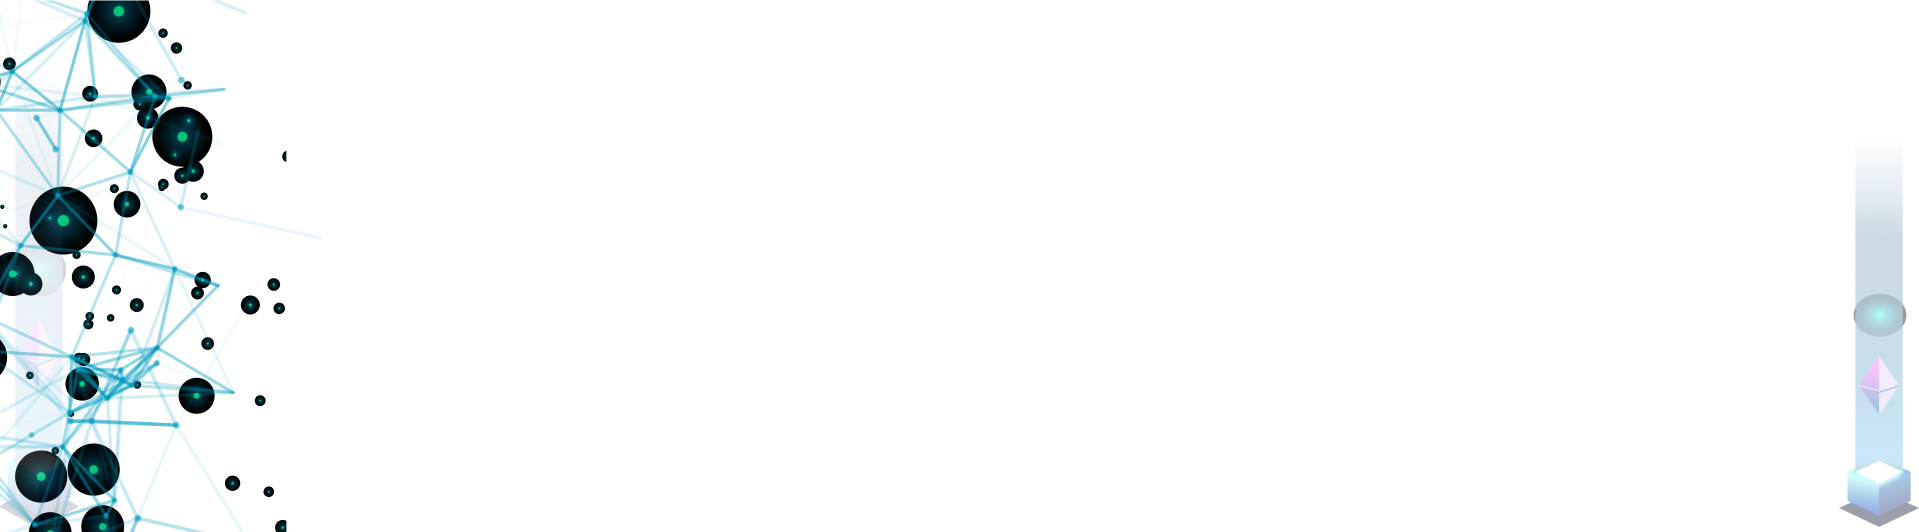
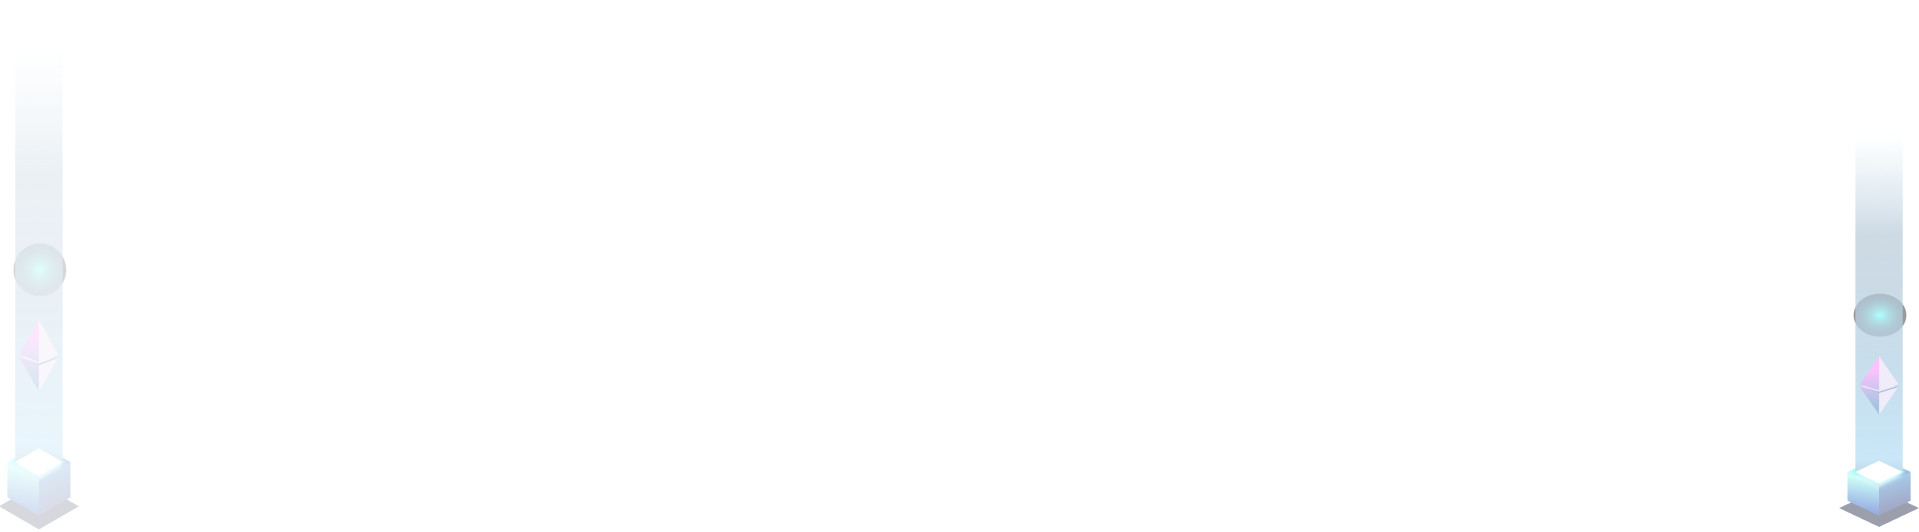
Версия - 1.0.4. Работы над footer
js/jsx -  В компонент Footer.jsx, был добавлен основной контент.

Changed region(s): [[0.0, 0.0, 0.1537, 1.0], [0.0922, 0.9023, 0.1537, 0.9323]]

diff --git a/src/components/Footer.jsx b/src/components/Footer.jsx
@@ -1,11 +1,20 @@
 // Import Images
 import footerLogo from "../img/footer/Group 215.png";
+import footerBg from "../img/footer/bg.png";
+import headphones from "../img/footer/Group.png";
+import mail from "../img/footer/Group 153.png";
+import geo from "../img/footer/Group 154.png";
+import facebook from "../img/footer/facebook.png";
+import instagram from "../img/footer/instagram.png";
+import whatsapp from "../img/footer/whatsapp.png";
+import twitter from "../img/footer/twitter.png";
+import youtube from "../img/footer/youtube.png";
 
 const Footer = () => {
   return (
     <footer className="footer">
       <div className="footer__bg">
-        <img src="" alt="" />
+        <img src={footerBg} alt="" />
       </div>
       <article className="footer-info">
         <ul className="footer-info__column">
@@ -13,81 +22,91 @@ const Footer = () => {
             <img src={footerLogo} alt="" />
           </li>
           <li className="footer-info__list">
-            <p></p>
+            <p>
+              which is the same as saying through shrinking from toil and pain.
+              These cases are perfectly simple and easy to distinguish.
+            </p>
           </li>
           <li className="footer-info__list">
-            <img src="" alt="" />
-            <p></p>
+            <img src={headphones} alt="" />
+            <p>+7 (495) 2222-0000-32</p>
           </li>
           <li className="footer-info__list">
-            <img src="" alt="" />
-            <p></p>
+            <img src={mail} alt="" />
+            <p>Hello.me@nft.com</p>
           </li>
           <li className="footer-info__list">
-            <img src="" alt="" />
-            <p></p>
+            <img src={geo} alt="" />
+            <p>00000 Collins Street West Victoria 66666 Australia</p>
           </li>
         </ul>
       </article>
       <article className="footer-explore">
         <ul className="footer-explore__column">
           <li className="footer-explore__list">
-            <p className="list-title"></p>
+            <p className="list-title">Explore</p>
           </li>
           <li className="footer-explore__list">
-            <p></p>
+            <p>My Account</p>
           </li>
           <li className="footer-explore__list">
-            <p></p>
+            <p>Create Now</p>
           </li>
           <li className="footer-explore__list">
-            <p></p>
+            <p>List a Item</p>
           </li>
           <li className="footer-explore__list">
-            <p></p>
+            <p>Privacy Polocy</p>
           </li>
           <li className="footer-explore__list">
-            <p></p>
+            <p>FAQs</p>
           </li>
         </ul>
       </article>
       <article className="footer-marketplace">
         <ul className="footer-marketplace__column">
           <li className="footer-marketplace__list">
-            <p className="list-title"></p>
+            <p className="list-title">Marketplece</p>
           </li>
           <li className="footer-marketplace__list">
-            <p></p>
+            <p>Art</p>
           </li>
           <li className="footer-marketplace__list">
-            <p></p>
+            <p>Photo</p>
           </li>
           <li className="footer-marketplace__list">
-            <p></p>
+            <p>Create a Store</p>
           </li>
           <li className="footer-marketplace__list">
-            <p></p>
+            <p>Start Selling</p>
           </li>
         </ul>
       </article>
       <article className="footer-newsletter">
         <ul className="footer-newsletter__column">
           <li className="footer-newsletter__list">
-            <p className="list-title"></p>
+            <p className="list-title">Newsletter</p>
           </li>
           <li className="footer-newsletter__list">
-            <img src="" alt="" className="list-img" />
-            <img src="" alt="" className="list-img" />
-            <img src="" alt="" className="list-img" />
+            <img src={facebook} alt="" className="list-img" />
+            <img src={instagram} alt="" className="list-img" />
+            <img src={whatsapp} alt="" className="list-img" />
           </li>
           <li className="footer-newsletter__list">
-            <img src="" alt="" className="list-img" />
-            <img src="" alt="" className="list-img" />
+            <img src={twitter} alt="" className="list-img" />
+            <img src={youtube} alt="" className="list-img" />
           </li>
           <li className="footer-newsletter__list">
             <form action="" className="list-form">
-              <input type="text" className="list-input" />
-              <button type="submit" className="list-btn"></button>
+              <input
+                placeholder="Enter Your Email"
+                type={"email"}
+                className="list-input"
+                required
+              />
+              <button type="submit" className="list-btn">
+                Subcribe
+              </button>
             </form>
           </li>
         </ul>

diff --git a/src/styles/css/Footer.css b/src/styles/css/Footer.css
@@ -2,10 +2,15 @@
 @import url("https://fonts.googleapis.com/css2?family=Roboto:wght@100;300;400;500;700;900&display=swap");
 @import url("https://fonts.googleapis.com/css2?family=DM+Sans:wght@400;500;700&display=swap");
 .footer {
-  background: linear-gradient(180deg, rgb(30, 30, 70) 0%, rgb(38, 21, 100) 24%, rgb(47, 21, 140) 78%, rgb(28, 0, 136) 100%);
   margin-top: 110px;
   padding: 88px 375px;
+  background: linear-gradient(180deg, rgb(30, 30, 70) 0%, rgb(38, 21, 100) 24%, rgb(47, 21, 140) 78%, rgb(28, 0, 136) 100%);
 }
 .footer__bg {
+  display: none;
+}
+.footer__bg img {
+  width: 100%;
   position: absolute;
+  left: 1px;
 }

diff --git a/src/styles/scss/Footer.scss b/src/styles/scss/Footer.scss
@@ -1,12 +1,18 @@
 @import './Imports.scss';
 
 .footer {
-    background: $bgcl1;
     margin-top: 110px;
     padding: 88px 375px;
+    background: $bgcl1;
 
     &__bg {
-        position: absolute;
+        display: none;
+
+        img {
+            width: 100%;
+            position: absolute;
+            left: 1px;
+        }
     }
 
     &__copyright {}
